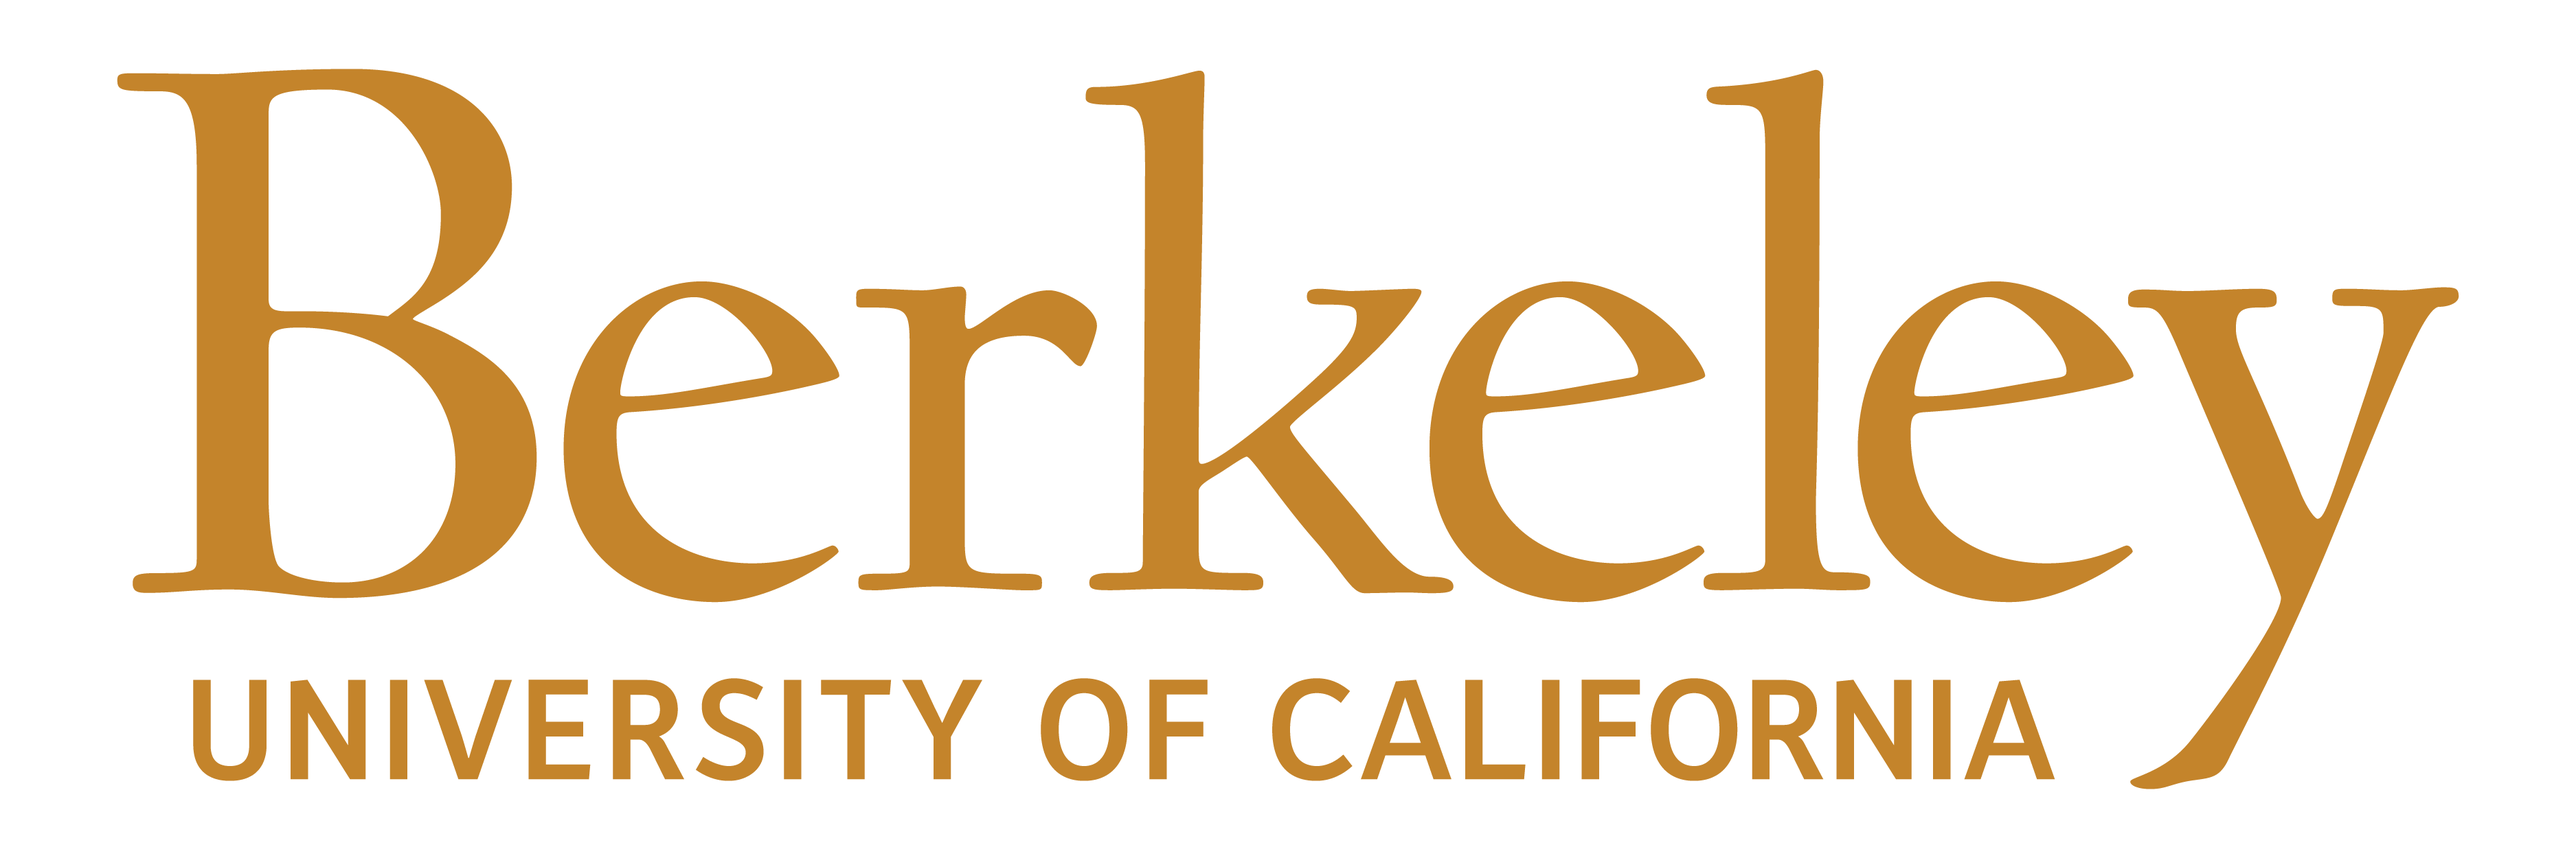
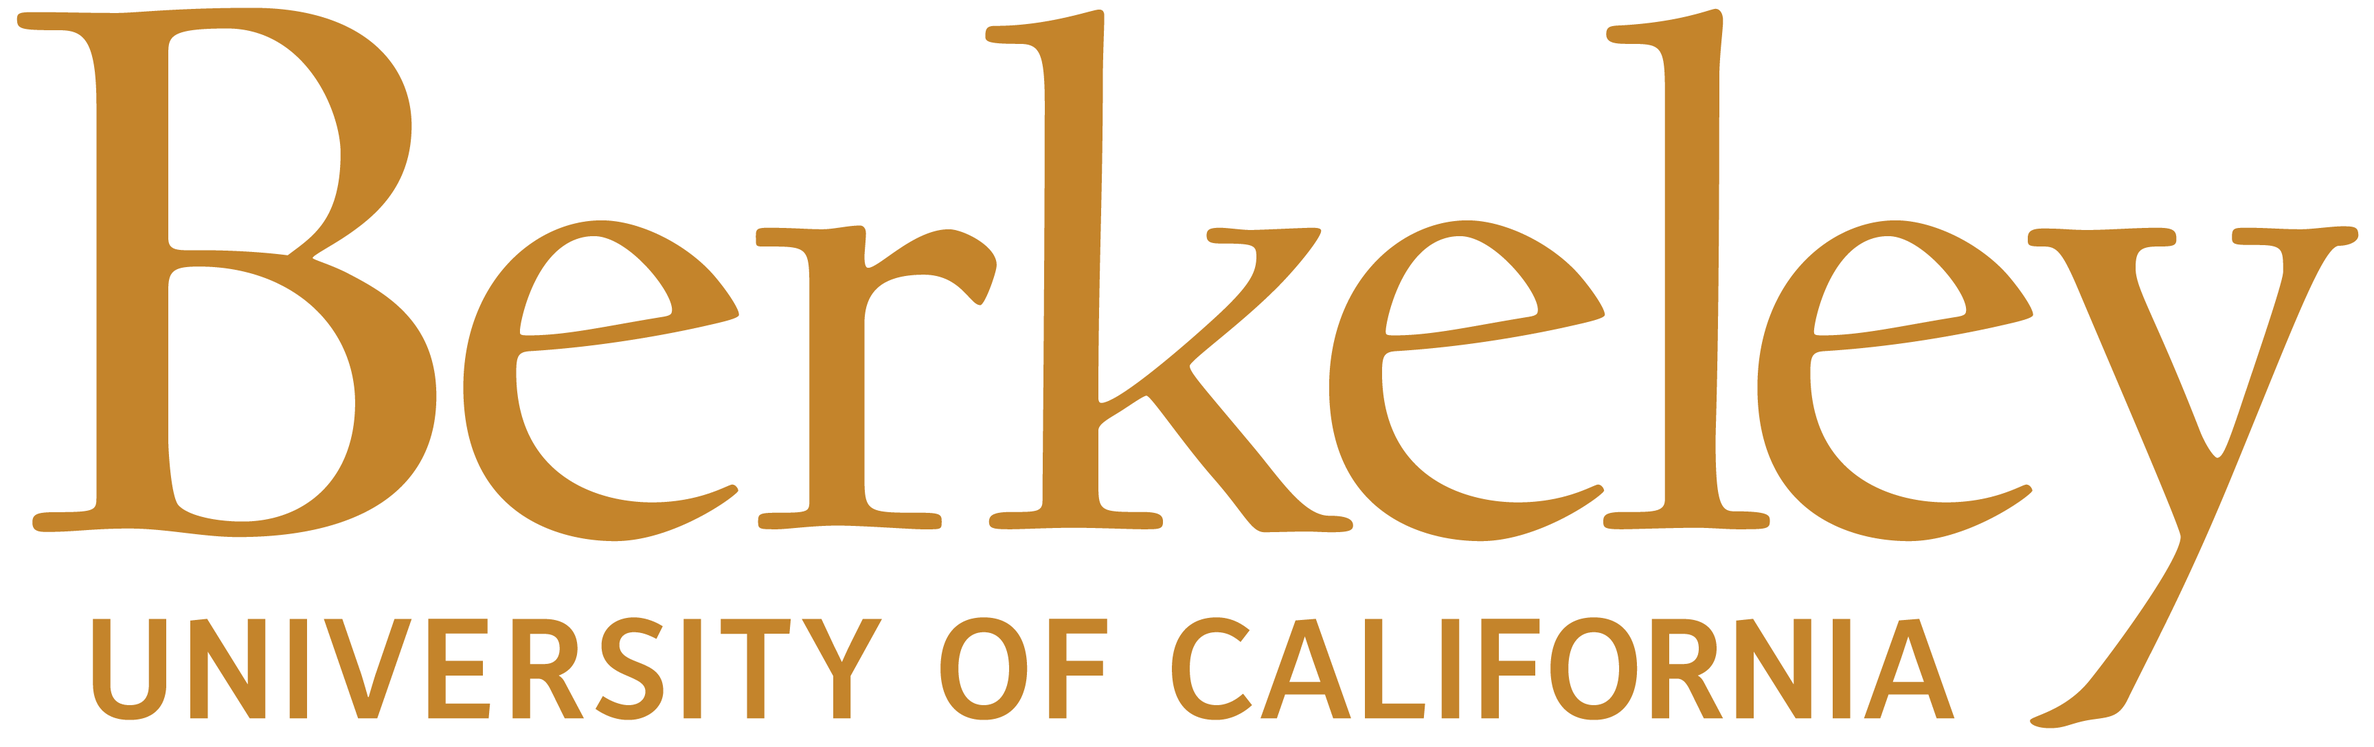
Better header:

Changed region(s): [[0.0, 0.0, 1.0, 0.9688]]

diff --git a/index.html b/index.html
@@ -58,14 +58,11 @@
   <div class="body">
 
     <!--========== BEGIN HEADER ==========-->
-    <header id="header" class="header-main">
+    <!-- <header id="header" class="header-main">
 
-      <!-- Begin Navbar -->
-      <nav id="main-navbar" class="navbar navbar-default navbar-fixed-top" role="navigation"> <!-- Classes: navbar-default, navbar-inverse, navbar-fixed-top, navbar-fixed-bottom, navbar-transparent. Note: If you use non-transparent navbar, set "height: 98px;" to #header -->
-
+      <nav id="main-navbar" class="navbar navbar-default navbar-fixed-top" role="navigation">
         <div class="container">
 
-          <!-- Brand and toggle get grouped for better mobile display -->
           <div class="navbar-header">
             <button type="button" class="navbar-toggle collapsed" data-toggle="collapse" data-target="#bs-example-navbar-collapse-1">
               <span class="sr-only">Toggle navigation</span>
@@ -76,7 +73,6 @@
             <a class="navbar-brand page-scroll" href="index.html">Vascular Model Repository</a>
           </div>
 
-          <!-- Collect the nav links, forms, and other content for toggling -->
           <div class="collapse navbar-collapse" id="bs-example-navbar-collapse-1">
             <ul class="nav navbar-nav navbar-right">
               <li><a class="page-scroll" href="body">Home</a></li>
@@ -85,11 +81,20 @@
               <li><a class="page-scroll" href="#contact-section">Contact us</a></li>
               <li><a href="repository.html">Repository</a></li>
             </ul>
-          </div><!-- /.navbar-collapse -->
-        </div><!-- /.container -->
-      </nav>
-      <!-- End Navbar -->
+          </div>
+        </div>
+    </nav>
 
+    </header> -->
+    <header>
+      <a href="*" class="logo" style="text-decoration:none;">VMR</a>
+      <ul>
+        <li><a class="page-scroll" href="body" style="text-decoration:none;">Home</a></li>
+        <li><a class="page-scroll" href="#about-section" style="text-decoration:none;">About</a></li>
+        <li><a class="page-scroll" href="#portfolio-section" style="text-decoration:none;">Gallery</a></li>
+        <li><a href="repository.html" style="text-decoration:none;">Repository</a></li>
+        <li><a class="page-scroll" href="#contact-section" style="text-decoration:none;">Contact us</a></li>
+      </ul>
     </header>
     <!-- ========= END HEADER =========-->
 
@@ -185,12 +190,12 @@
         <div class="container">
           <div class="row">
 
-            <div class="col-md-9">
+            <div class="col-md-8">
               <h1>SimVascular-ready projects</h1>
               <p>SimVascular is an open-source software providing a complete pipeline from medical image data segmentation to patient specific blood flow simulation and analysis. This repository features projects that are compatible with SimVascular containing medical images, segmentation files, 3D models and meshes, and simulation files. Need help getting started with SimVascular? Visit the <a href="http://simvascular.github.io/docsQuickGuide.html" target="_blank">Getting started</a> guide or  the <a href="https://simtk.org/plugins/phpBB/indexPhpbb.php?f=188" target="_blank">Forum</a> for general issues.</p>
             </div>
 
-            <div class="col-md-3">
+            <div class="col-md-2 my-auto">
               <div class="cta-btn wow bounceInRight" data-wow-delay="0.4s">
                 <a class="btn btn-default btn-lg" href="http://simvascular.github.io/" target="_blank" role="button">Download SimVascular</a>
               </div>
@@ -315,12 +320,12 @@
         <div class="row">
           <div class="col-xs-12 col-sm-6">
             <div class="wow fadeInDown" style="display: flex;  justify-content: center;"  data-wow-delay="0.3s">
-              <img src="img/partners/stanford.png" style="height:100px;" alt="stanford"/>
+              <img src="img/partners/stanford.png" style="width:60%;" alt="stanford"/>
             </div>
           </div>
           <div class="col-xs-12 col-sm-6">
             <div class="wow fadeInDown" style="display: flex;  justify-content: center;"  data-wow-delay="0.4s">
-              <img src="img/partners/berkeley.png" style="height:100px;" alt="berkeley"/>
+              <img src="img/partners/berkeley.png" style="width:60%;" alt="berkeley"/>
             </div>
           </div>
         </div>
@@ -451,6 +456,13 @@
 <script src="inc/jquery.easing.min.js"></script>
 <script src="inc/jquery.counterup.min.js"></script>
 <script src="inc/smoothscroll.js"></script>
+
+<script type="text/javascript">
+  window.addEventListener("scroll", function(){
+    var header = document.querySelector("header");
+    header.classList.toggle("sticky", window.scrollY > 0)
+  })
+</script>
 
 <!-- Theme JS -->
 <script src="js/theme.js"></script>

diff --git a/css/style.css b/css/style.css
@@ -9,7 +9,7 @@ Master Stylesheet
 	Version:	1.0
 
 ---------------------------------------------------------------------------------*/
-
+@import url('https://fonts.googleapis.com/?family=Poppins:200,300,400,500,600,700,800,900&display=swap');
 html {
 	height: 100% !important;
 }
@@ -49,33 +49,33 @@ body .body {
 
 /* Begin Fonts */
 body {
-	font-family: 'Roboto', Helvetica, Arial, sans-serif;
+	font-family: 'Poppins', sans-serif;
 }
 h1, h2, h3, h4, h5, h6 {
-	font-family: 'Roboto', Helvetica, Arial, sans-serif;
+	font-family: 'Poppins', sans-serif;
 	font-weight: 700;
 	margin-bottom: 10px;
 }
 h1 {
-	font-size: 36px;
+	font-size: 42px;
 }
 h2 {
-	font-size: 30px;
+	font-size: 34px;
 }
 h3 {
-	font-size: 26px;
+	font-size: 30px;
 }
 h4 {
-	font-size: 22px;
+	font-size: 25px;
 }
 h5 {
-	font-size: 18px;
+	font-size: 20px;
 }
 p {
-	font: 14px/1.5em "Roboto";
+	font: 16px/1.5em "Poppins", sans-serif;
 }
 .navbar-nav > li > a {
-	font-family: "Lato", Helvetica, Arial, sans-serif;
+	font-family: "Poppins", sans-serif;
 }
 /* End Fonts */
 
@@ -122,9 +122,61 @@ section {
   	background-size: cover;
 }
 
-#header {
-	/* height: 98px; */
+header {
+  position: fixed;
+  top: 0;
+  left: 0;
+  width: 100%;
+  display: flex;
+  justify-content: space-between;
+  align-items: center;
+  z-index: 12;
+  transition: 0.6s;
+  padding: 40px 100px;
 }
+
+header .logo{
+  position: relative;
+  font-weight: 700;
+  color: #fff;
+  text-decoration: none;
+  font-size: 2em;
+  text-transform: uppercase;
+  letter-spacing: 2px;
+  transition: 0.6s;
+}
+
+header ul {
+  position: relative;
+  display: flex;
+  justify-content: center;
+  align-items: center;
+}
+
+header ul li
+{
+  position: relative;
+  list-style: none;
+  text-decoration: none;
+}
+
+header ul li a
+{
+  position: relative;
+  margin: 0 15px;
+  text-decoration: none;
+  color: #fff;
+  letter-spacing: 2px;
+  font-weight: 500px;
+  transition: 0.6s;
+}
+
+header.sticky
+{
+  padding: 5px 100px;
+  background: #363940;
+}
+
 
 
 /* ===== Begin text colors ===== */

diff --git a/repository.html b/repository.html
@@ -11,10 +11,10 @@
   <meta name="viewport" content="width=device-width, initial-scale=1" target="_blank">
 
   <!-- Google Fonts  -->
-  <link rel="preconnect" href="https://fonts.googleapis.com">
+  <!-- <link rel="preconnect" href="https://fonts.googleapis.com">
   <link rel="preconnect" href="https://fonts.gstatic.com" crossorigin>
-  <link href="https://fonts.googleapis.com/css2?family=Roboto:wght@400;500;700&display=swap" rel="stylesheet">  <!-- Body font -->
-  <link href="https://fonts.googleapis.com/css2?family=Lato:wght@300;400&display=swap" rel="stylesheet"> <!-- Navbar font -->
+  <link href="https://fonts.googleapis.com/css2?family=Roboto:wght@400;500;700&display=swap" rel="stylesheet">
+  <link href="https://fonts.googleapis.com/css2?family=Lato:wght@300;400&display=swap" rel="stylesheet">  -->
 
   <!-- Libs and Plugins CSS -->
   <link rel="stylesheet" href="inc/bootstrap/css/bootstrap.min.css">
